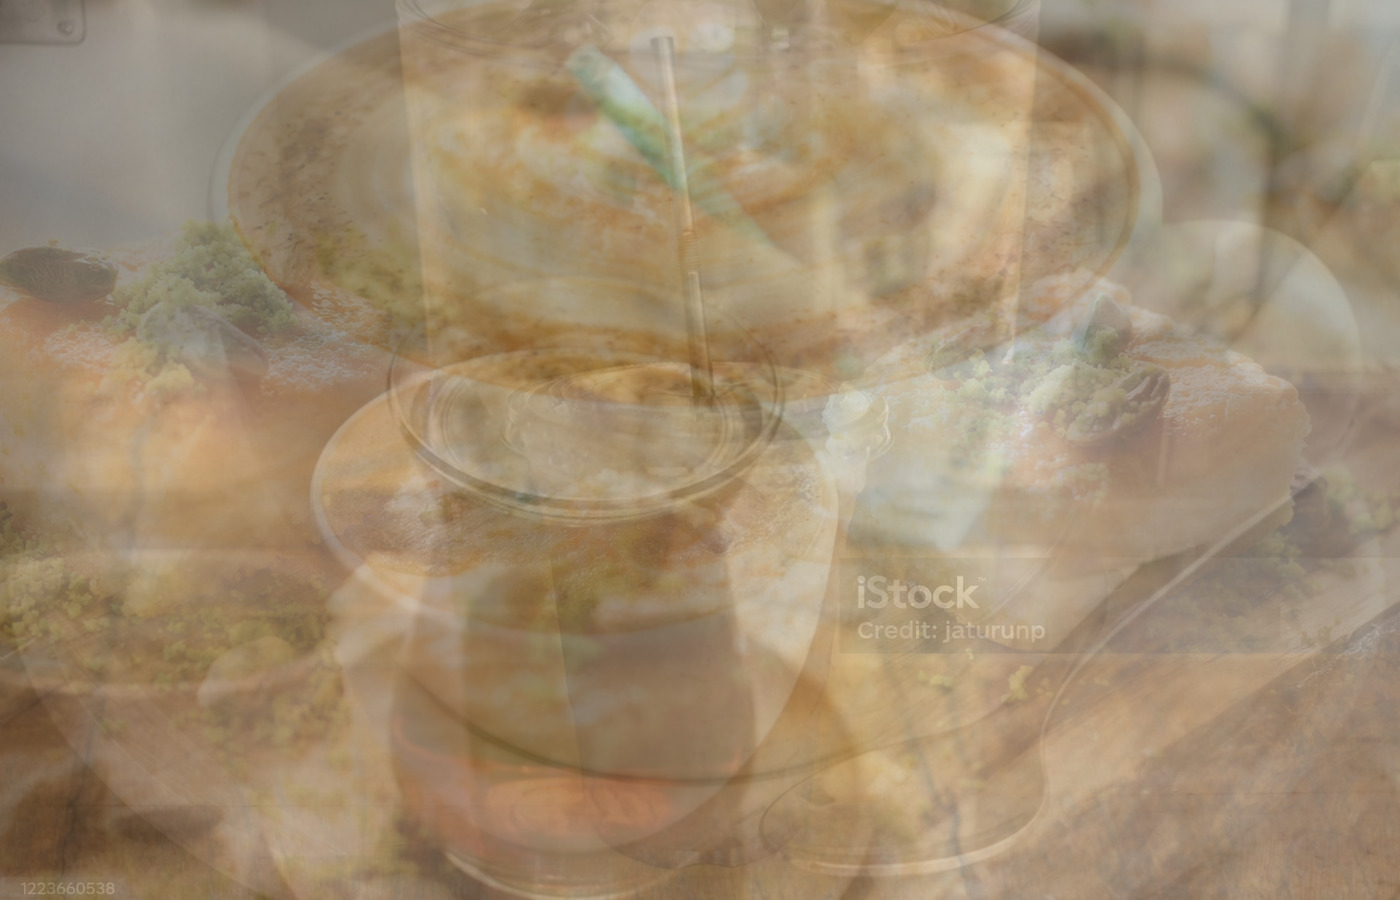
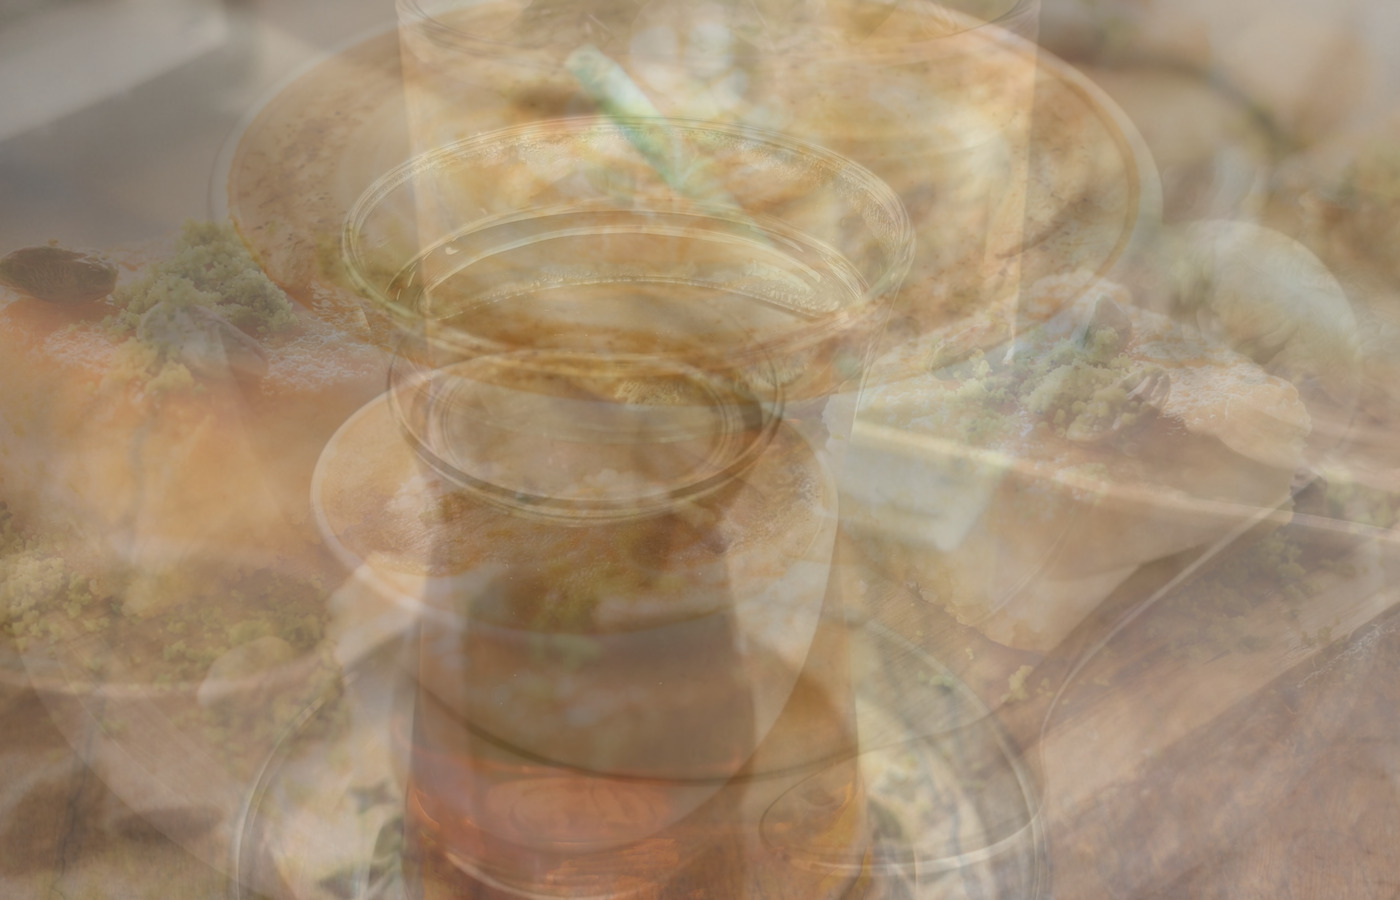
Update menu section component and beverage collage asset
Replit-Commit-Author: Agent

diff --git a/client/src/components/MenuSection.tsx b/client/src/components/MenuSection.tsx
@@ -259,8 +259,8 @@ export default function MenuSection() {
     french:    { image: eiffelBg, filter: "brightness(2.0) saturate(0.4) hue-rotate(-40deg) contrast(0.85) grayscale(0.15)", position: "center" },
     american:  { image: classicsBg, position: "center" },
     desserts:  { image: teapotBg, position: "center", filter: "brightness(1.3) saturate(1.1)", opacity: 0.35 },
-    beverages: { image: cappadociaBg, position: "center 30%", filter: "brightness(0.8) saturate(0.9)" },
-    smoothies: { image: cappadociaBg, position: "center 30%", filter: "brightness(0.8) saturate(0.9)" },
+    beverages: { image: beveragesBg, position: "center", filter: "brightness(1.0) saturate(1.1)" },
+    smoothies: { image: beveragesBg, position: "center", filter: "brightness(1.0) saturate(1.1)" },
   };
   const currentBg = tabBgMap[activeTab] ?? tabBgMap.french;
 
@@ -306,43 +306,43 @@ export default function MenuSection() {
             <TabsList className="bg-transparent h-auto gap-3 flex-wrap justify-center">
               <TabsTrigger 
                 value="brazilian" 
-                className="rounded-full px-4 py-2 text-sm sm:px-6 sm:py-2.5 sm:text-base text-white/70 data-[state=active]:bg-secondary data-[state=active]:text-black border border-white/10 data-[state=active]:border-secondary data-[state=active]:shadow-lg transition-all"
+                className="rounded-full px-4 py-2 text-sm sm:px-6 sm:py-2.5 sm:text-base text-white/70 data-[state=active]:bg-secondary data-[state=active]:text-black data-[state=active]:shadow-lg transition-all"
               >
                 Brazilian
               </TabsTrigger>
               <TabsTrigger 
                 value="turkish" 
-                className="rounded-full px-4 py-2 text-sm sm:px-6 sm:py-2.5 sm:text-base text-white/70 data-[state=active]:bg-secondary data-[state=active]:text-black border border-white/10 data-[state=active]:border-secondary data-[state=active]:shadow-lg transition-all"
+                className="rounded-full px-4 py-2 text-sm sm:px-6 sm:py-2.5 sm:text-base text-white/70 data-[state=active]:bg-secondary data-[state=active]:text-black data-[state=active]:shadow-lg transition-all"
               >
                 Turkish
               </TabsTrigger>
               <TabsTrigger 
                 value="french" 
-                className="rounded-full px-4 py-2 text-sm sm:px-6 sm:py-2.5 sm:text-base text-white/70 data-[state=active]:bg-secondary data-[state=active]:text-black border border-white/10 data-[state=active]:border-secondary data-[state=active]:shadow-lg transition-all"
+                className="rounded-full px-4 py-2 text-sm sm:px-6 sm:py-2.5 sm:text-base text-white/70 data-[state=active]:bg-secondary data-[state=active]:text-black data-[state=active]:shadow-lg transition-all"
               >
                 French
               </TabsTrigger>
               <TabsTrigger 
                 value="american" 
-                className="rounded-full px-4 py-2 text-sm sm:px-6 sm:py-2.5 sm:text-base text-white/70 data-[state=active]:bg-secondary data-[state=active]:text-black border border-white/10 data-[state=active]:border-secondary data-[state=active]:shadow-lg transition-all"
+                className="rounded-full px-4 py-2 text-sm sm:px-6 sm:py-2.5 sm:text-base text-white/70 data-[state=active]:bg-secondary data-[state=active]:text-black data-[state=active]:shadow-lg transition-all"
               >
                 Cafe Classics
               </TabsTrigger>
               <TabsTrigger 
                 value="desserts" 
-                className="rounded-full px-4 py-2 text-sm sm:px-6 sm:py-2.5 sm:text-base text-white/70 data-[state=active]:bg-secondary data-[state=active]:text-black border border-white/10 data-[state=active]:border-secondary data-[state=active]:shadow-lg transition-all"
+                className="rounded-full px-4 py-2 text-sm sm:px-6 sm:py-2.5 sm:text-base text-white/70 data-[state=active]:bg-secondary data-[state=active]:text-black data-[state=active]:shadow-lg transition-all"
               >
                 Pastries
               </TabsTrigger>
               <TabsTrigger 
                 value="beverages" 
-                className="rounded-full px-4 py-2 text-sm sm:px-6 sm:py-2.5 sm:text-base text-white/70 data-[state=active]:bg-secondary data-[state=active]:text-black border border-white/10 data-[state=active]:border-secondary data-[state=active]:shadow-lg transition-all"
+                className="rounded-full px-4 py-2 text-sm sm:px-6 sm:py-2.5 sm:text-base text-white/70 data-[state=active]:bg-secondary data-[state=active]:text-black data-[state=active]:shadow-lg transition-all"
               >
                 Beverages
               </TabsTrigger>
               <TabsTrigger 
                 value="smoothies" 
-                className="rounded-full px-4 py-2 text-sm sm:px-6 sm:py-2.5 sm:text-base text-white/70 data-[state=active]:bg-secondary data-[state=active]:text-black border border-white/10 data-[state=active]:border-secondary data-[state=active]:shadow-lg transition-all"
+                className="rounded-full px-4 py-2 text-sm sm:px-6 sm:py-2.5 sm:text-base text-white/70 data-[state=active]:bg-secondary data-[state=active]:text-black data-[state=active]:shadow-lg transition-all"
               >
                 Smoothies
               </TabsTrigger>
